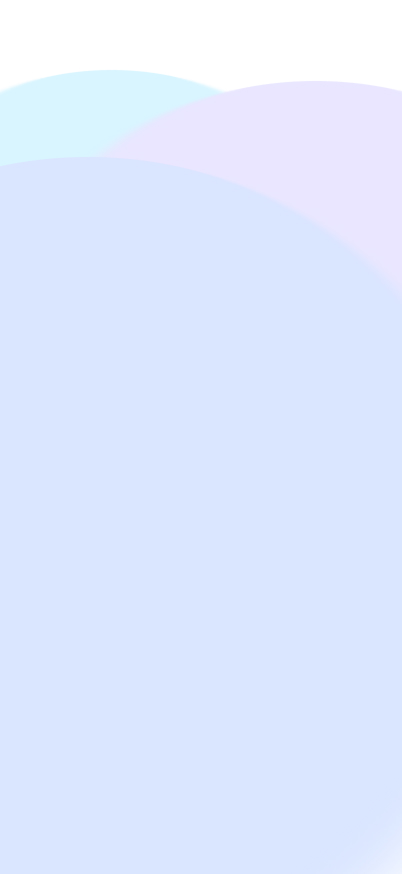
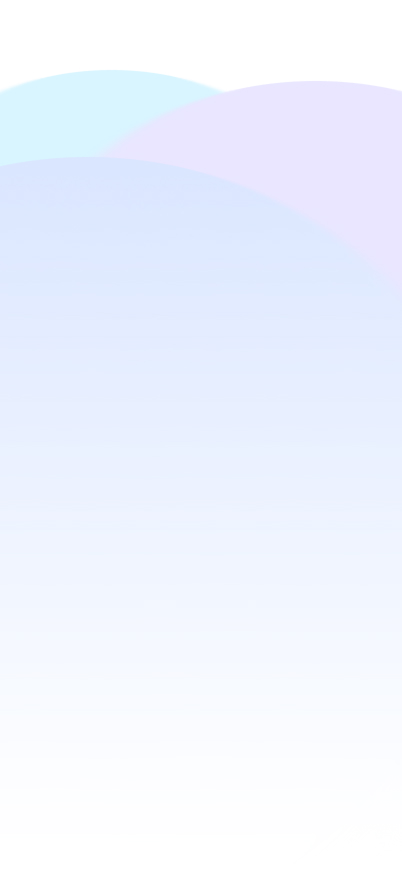
UI update on Activities

diff --git a/PoL/PoL/ContentView.swift b/PoL/PoL/ContentView.swift
@@ -21,6 +21,9 @@ struct ContentView: View {
     @Environment(\.scenePhase) private var scenePhase
     @Query(sort: \ActivityEventRecord.timestamp, order: .reverse) private var timelineEvents: [ActivityEventRecord]
     @State private var selectedTab: AppTab = .summary
+    @State private var eventPendingEdit: ActivityEventRecord?
+    @State private var eventPendingDelete: ActivityEventRecord?
+    @State private var timelineActionError: String?
 
     var body: some View {
         TabView(selection: $selectedTab) {
@@ -69,44 +72,71 @@ struct ContentView: View {
                         }
                     }
 
-                    Section("Activity Timeline") {
-                        let visibleEvents = timelineEvents.filter { !$0.isDeleted }
-                        if visibleEvents.isEmpty {
+                    let visibleEvents = timelineEvents.filter { !$0.isDeleted }
+                    if visibleEvents.isEmpty {
+                        Section("Activity Timeline") {
                             Text("No activity events yet. End a segment to create one.")
                                 .foregroundStyle(.secondary)
-                        } else {
-                            ForEach(visibleEvents) { event in
-                                VStack(alignment: .leading, spacing: 4) {
-                                    HStack {
-                                        Text(event.label.displayName)
-                                            .font(.headline)
-                                        if event.needsReview {
-                                            Text("Needs Review")
-                                                .font(.caption)
-                                                .padding(.horizontal, 6)
-                                                .padding(.vertical, 2)
-                                                .background(.yellow.opacity(0.2))
-                                                .clipShape(Capsule())
-                                        }
-                                    }
-                                    Text(event.timestamp.formatted(date: .abbreviated, time: .standard))
-                                        .font(.subheadline)
-                                        .foregroundStyle(.secondary)
-                                    Text("Confidence: \(event.confidence.formatted(.number.precision(.fractionLength(2))))")
-                                        .font(.caption)
-                                        .foregroundStyle(.secondary)
-                                    Text("Frames: \(event.frameCount.map(String.init) ?? "-")")
-                                        .font(.caption)
-                                        .foregroundStyle(.secondary)
-                                    Text(event.rationaleShort)
-                                        .font(.caption)
-                                        .foregroundStyle(.secondary)
+                        }
+                    } else {
+                        let calendar = Calendar.current
+                        let groupedEvents = Dictionary(grouping: visibleEvents) {
+                            calendar.startOfDay(for: $0.timestamp)
+                        }
+                        let sortedDays = groupedEvents.keys.sorted(by: >)
+
+                        ForEach(sortedDays, id: \.self) { day in
+                            Section(day.formatted(date: .abbreviated, time: .omitted)) {
+                                let eventsForDay = (groupedEvents[day] ?? []).sorted {
+                                    $0.timestamp > $1.timestamp
                                 }
-                                .padding(.vertical, 2 )
+                                ForEach(eventsForDay) { event in
+                                    VStack(alignment: .leading, spacing: 4) {
+                                        Text(event.timestamp.formatted(date: .omitted, time: .shortened))
+                                            .font(.subheadline)
+                                            .foregroundStyle(.secondary)
+                                        HStack {
+                                            Text(event.label.displayName)
+                                                .font(.headline)
+                                            if event.needsReview {
+                                                Text("Needs Review")
+                                                    .font(.caption)
+                                                    .padding(.horizontal, 6)
+                                                    .padding(.vertical, 2)
+                                                    .background(.yellow.opacity(0.2))
+                                                    .clipShape(Capsule())
+                                            }
+                                        }
+                                        Text(event.rationaleShort)
+                                            .font(.caption)
+                                            .foregroundStyle(.secondary)
+                                        Text("Confidence: \(event.confidence.formatted(.number.precision(.fractionLength(2))))")
+                                            .font(.caption)
+                                            .foregroundStyle(.secondary)
+                                    }
+                                    .padding(.vertical, 2)
+                                    .swipeActions(edge: .trailing, allowsFullSwipe: false) {
+                                        Button {
+                                            eventPendingDelete = event
+                                        } label: {
+                                            Label("Delete", systemImage: "trash")
+                                        }
+                                        .tint(.red)
+
+                                        Button {
+                                            eventPendingEdit = event
+                                        } label: {
+                                            Label("Edit", systemImage: "pencil")
+                                        }
+                                        .tint(.blue)
+                                    }
+                                }
                             }
                         }
                     }
                 }
+                .scrollContentBackground(.hidden)
+                .background(activitiesBackground)
                 .navigationTitle("Activities")
             }
             .tabItem {
@@ -227,6 +257,66 @@ struct ContentView: View {
         .onDisappear {
             UIApplication.shared.isIdleTimerDisabled = false
         }
+        .confirmationDialog(
+            "Edit Activity Type",
+            isPresented: Binding(
+                get: { eventPendingEdit != nil },
+                set: { isPresented in
+                    if !isPresented { eventPendingEdit = nil }
+                }
+            ),
+            titleVisibility: .visible
+        ) {
+            ForEach(editableActivityLabels, id: \.self) { label in
+                Button(label.displayName) {
+                    if let event = eventPendingEdit {
+                        updateActivityType(for: event, to: label)
+                    }
+                    eventPendingEdit = nil
+                }
+            }
+            Button("Cancel", role: .cancel) {
+                eventPendingEdit = nil
+            }
+        } message: {
+            if let event = eventPendingEdit {
+                Text("Change \"\(event.label.displayName)\" to:")
+            }
+        }
+        .alert(
+            "Delete Activity?",
+            isPresented: Binding(
+                get: { eventPendingDelete != nil },
+                set: { isPresented in
+                    if !isPresented { eventPendingDelete = nil }
+                }
+            ),
+            presenting: eventPendingDelete
+        ) { event in
+            Button("Delete", role: .destructive) {
+                deleteActivity(event)
+            }
+            Button("Cancel", role: .cancel) {
+                eventPendingDelete = nil
+            }
+        } message: { _ in
+            Text("This activity will be removed from the timeline.")
+        }
+        .alert(
+            "Timeline Update Failed",
+            isPresented: Binding(
+                get: { timelineActionError != nil },
+                set: { isPresented in
+                    if !isPresented { timelineActionError = nil }
+                }
+            )
+        ) {
+            Button("OK", role: .cancel) {
+                timelineActionError = nil
+            }
+        } message: {
+            Text(timelineActionError ?? "Please try again.")
+        }
     }
 
     @ViewBuilder
@@ -263,6 +353,31 @@ struct ContentView: View {
         case paused
     }
 
+    private var editableActivityLabels: [ActivityLabel] {
+        [.diaperWet, .diaperBowel, .feeding, .sleepStart, .wakeUp]
+    }
+
+    private func updateActivityType(for event: ActivityEventRecord, to newLabel: ActivityLabel) {
+        event.label = newLabel
+        event.isUserCorrected = true
+        event.needsReview = false
+        persistTimelineChanges()
+    }
+
+    private func deleteActivity(_ event: ActivityEventRecord) {
+        event.isDeleted = true
+        persistTimelineChanges()
+        eventPendingDelete = nil
+    }
+
+    private func persistTimelineChanges() {
+        do {
+            try modelContext.save()
+        } catch {
+            timelineActionError = error.localizedDescription
+        }
+    }
+
     private var settingsBackground: some View {
         Group {
             if let imagePath = Bundle.main.path(forResource: "SettingsBackground", ofType: "jpg"),
@@ -272,6 +387,22 @@ struct ContentView: View {
                     .scaledToFill()
             } else {
                 Image("SettingsBackground")
+                    .resizable()
+                    .scaledToFill()
+            }
+        }
+        .ignoresSafeArea()
+    }
+
+    private var activitiesBackground: some View {
+        Group {
+            if let imagePath = Bundle.main.path(forResource: "Activities background", ofType: "jpg"),
+               let image = UIImage(contentsOfFile: imagePath) {
+                Image(uiImage: image)
+                    .resizable()
+                    .scaledToFill()
+            } else {
+                Image("Activities background")
                     .resizable()
                     .scaledToFill()
             }
